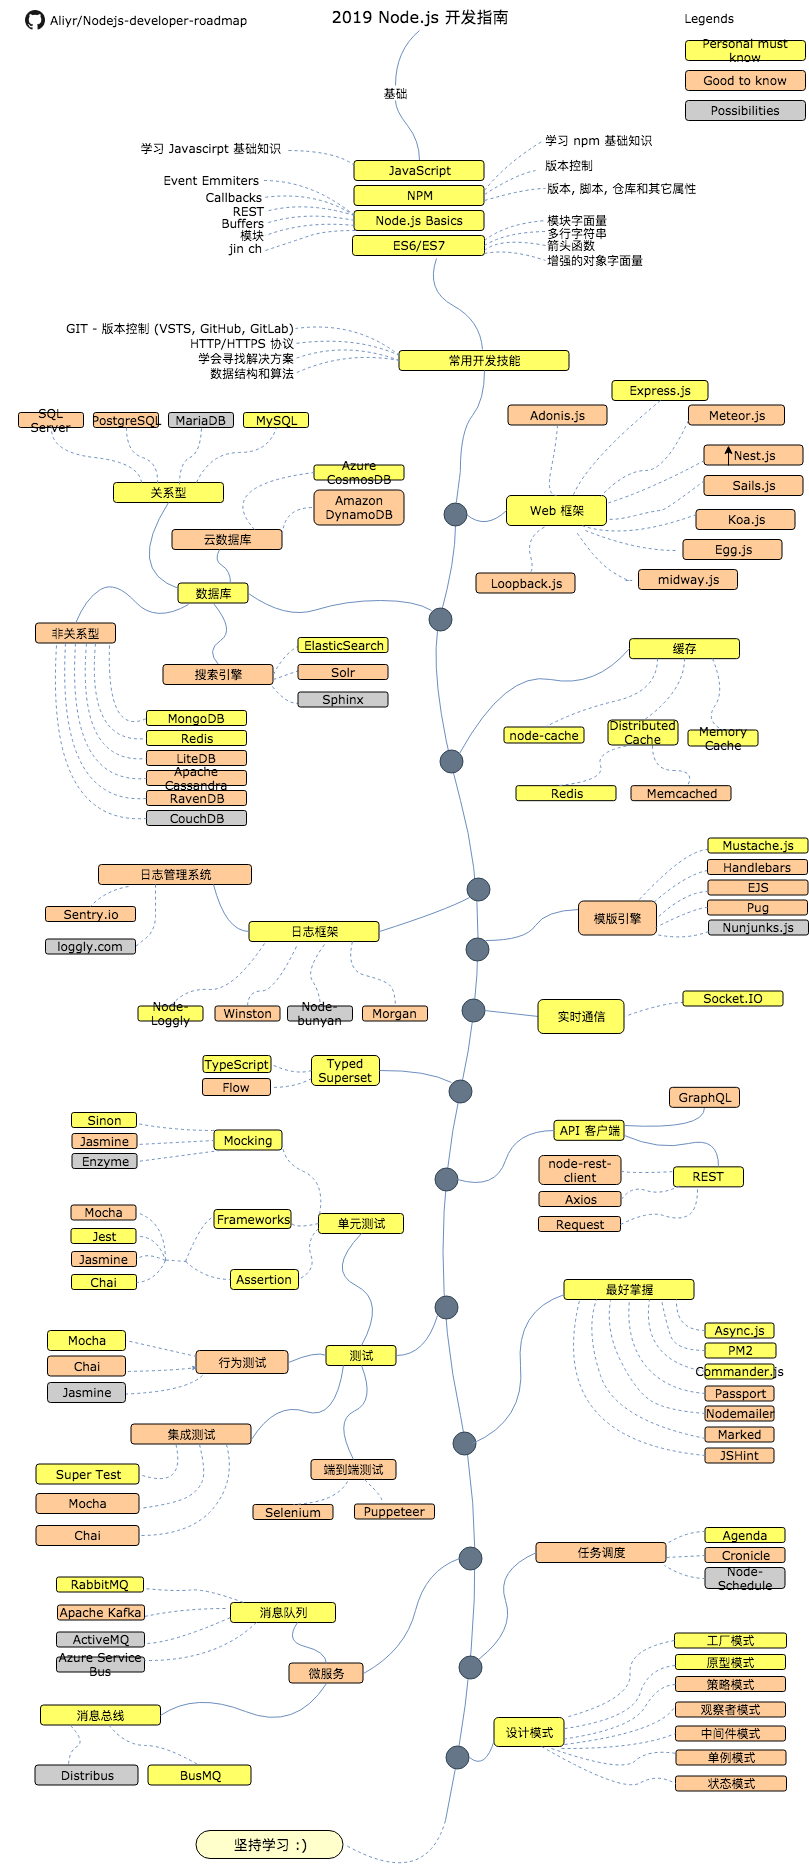
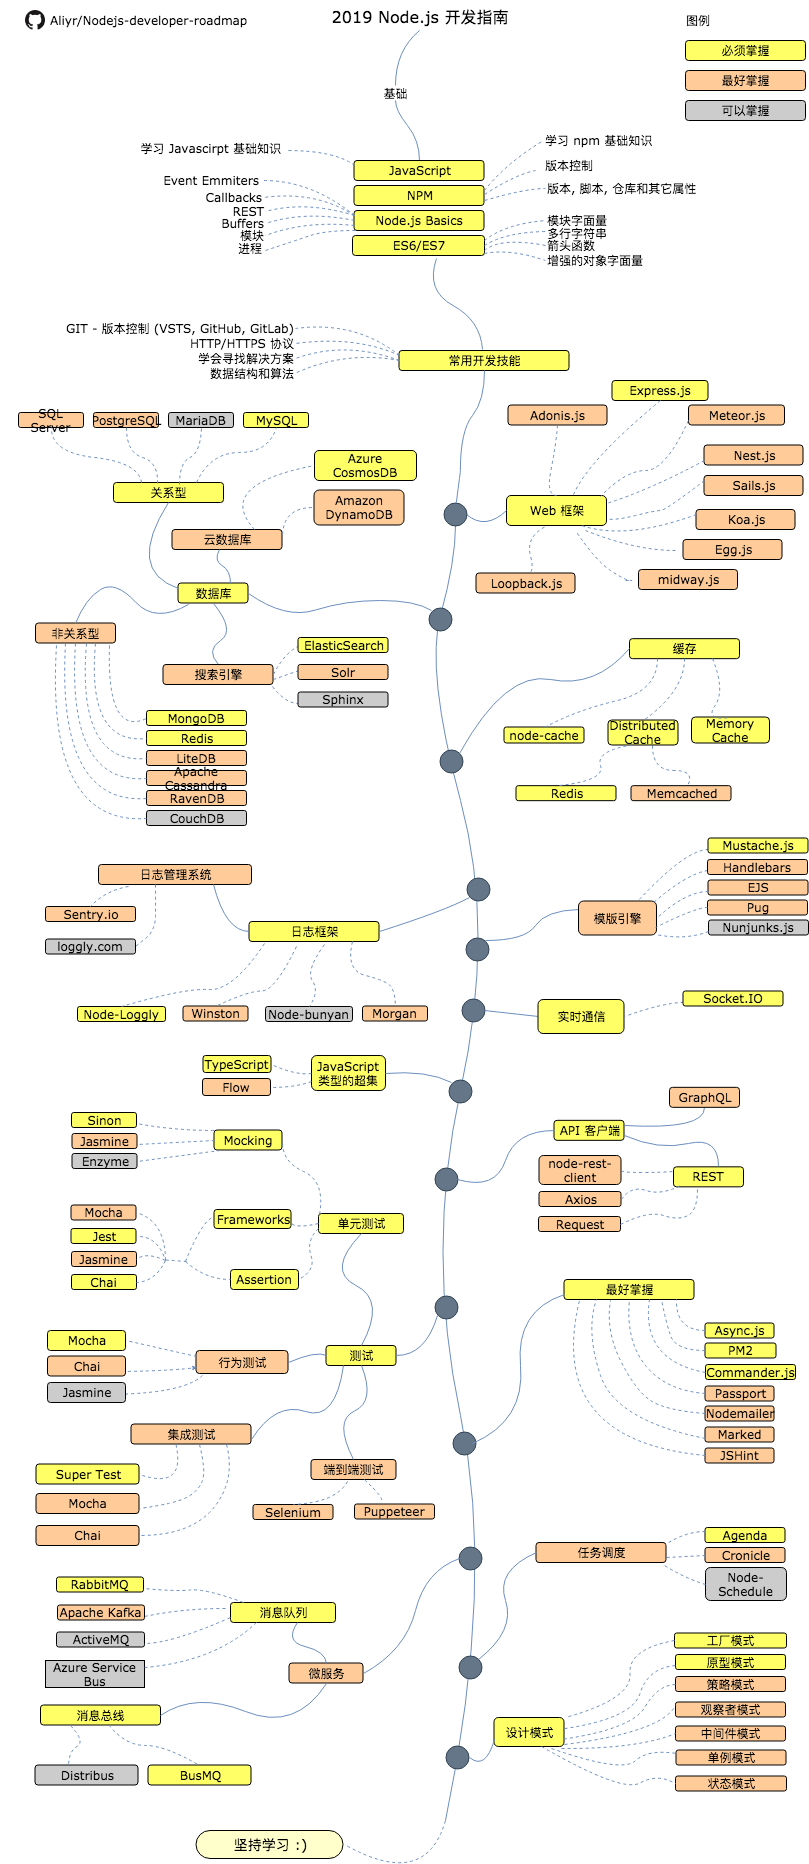
Chinese version translation

diff --git a/ReadMe-CN.md b/ReadMe-CN.md
@@ -5,6 +5,8 @@
 你可以在下面找到一张图，该图展示了你可以选取的路径及你想学习的库，从而成为一名 Node.js 开发者。“作为 Node.js 开发者，我接下来应该学习什么？”，我把这张图作为建议给每个问过我这一问题的人。
 
 * 语言: [:cn: 中文](ReadMe-CN.md) | [:uk: English](/ReadMe.md)
+* 作者：[Aliyr](https://github.com/aliyr)
+* 译者：[五月君](https://github.com/Q-Angelo)
 
 ## 免责声明
 
@@ -100,12 +102,12 @@
    1. [Socket.IO](https://socket.io/)
 
 
-9. Typed Superset
+9. JavaScript类型的超集
 
     1. [TypeScript](https://www.typescriptlang.org/)
     2. [Flow](https://flow.org/)
 
-10. API Clients
+10. API 客户端
 
     1. REST
        - [Request](https://github.com/request/request)
